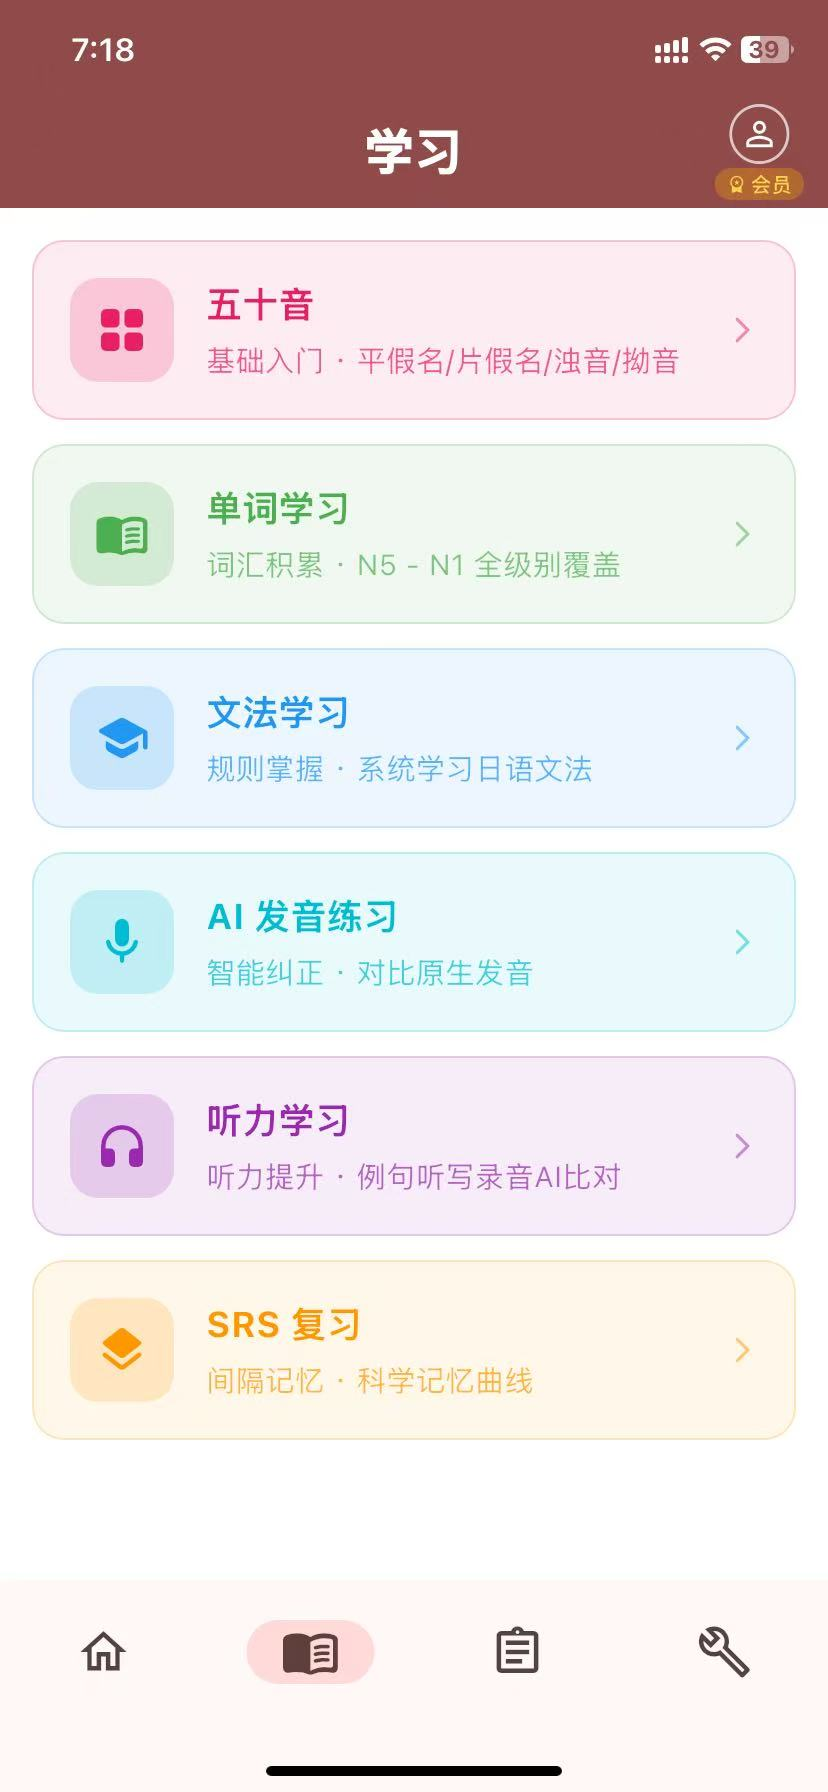
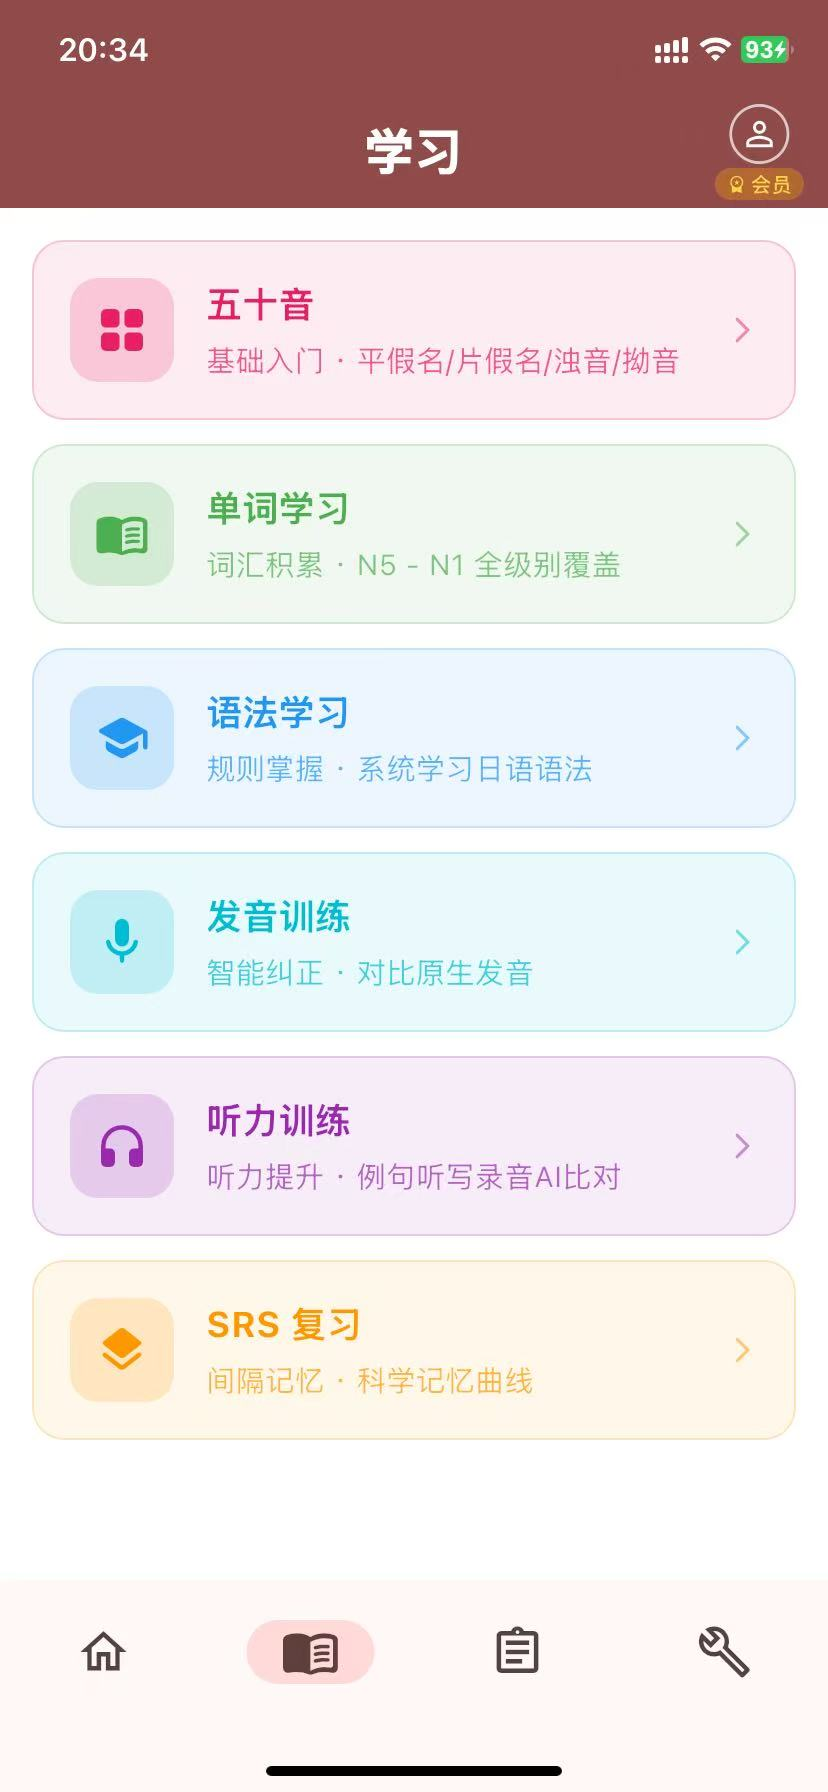
update codes

diff --git a/lib/services/api_service.dart b/lib/services/api_service.dart
@@ -1,4 +1,5 @@
 import 'dart:async';
+import 'dart:convert';
 import 'dart:io';
 import 'dart:typed_data';
 import 'package:dio/dio.dart';
@@ -6,6 +7,7 @@ import 'package:dio/io.dart';
 import 'package:flutter/foundation.dart' show VoidCallback;
 import 'package:flutter_secure_storage/flutter_secure_storage.dart';
 import 'package:path_provider/path_provider.dart';
+import 'package:shared_preferences/shared_preferences.dart';
 import '../config/app_config.dart';
 import '../models/models.dart';
 import 'local_db.dart';
@@ -361,7 +363,33 @@ class ApiService {
     final res = await _dio.get('/auth/me');
     final user = UserModel.fromJson(res.data['user']);
     _cache.set(key, user, AppConfig.cacheTtlShort);
+    _persistUser(user);
     return user;
+  }
+
+  static const _userCacheKey = 'cached_user_data';
+
+  /// 持久化用户数据到 SharedPreferences
+  Future<void> _persistUser(UserModel user) async {
+    final prefs = await SharedPreferences.getInstance();
+    await prefs.setString(_userCacheKey, jsonEncode(user.toJson()));
+  }
+
+  /// 从 SharedPreferences 读取缓存的用户数据（同步启动时用）
+  UserModel? getCachedUser(SharedPreferences prefs) {
+    final raw = prefs.getString(_userCacheKey);
+    if (raw == null) return null;
+    try {
+      return UserModel.fromJson(jsonDecode(raw) as Map<String, dynamic>);
+    } catch (_) {
+      return null;
+    }
+  }
+
+  /// 清除本地持久化的用户数据
+  Future<void> _clearCachedUser() async {
+    final prefs = await SharedPreferences.getInstance();
+    await prefs.remove(_userCacheKey);
   }
 
   /// 获取会员体验配置
@@ -404,7 +432,9 @@ class ApiService {
       if (level    != null) 'level':    level,
       if (username != null) 'username': username,
     });
-    return UserModel.fromJson(res.data);
+    final user = UserModel.fromJson(res.data);
+    _persistUser(user);
+    return user;
   }
 
   Future<UserModel> uploadAvatarBytes(Uint8List bytes, {String fileName = 'avatar.png'}) async {
@@ -413,7 +443,9 @@ class ApiService {
       'avatar': MultipartFile.fromBytes(bytes, filename: fileName),
     });
     final res = await _dio.post('/users/avatar', data: formData);
-    return UserModel.fromJson(res.data);
+    final user = UserModel.fromJson(res.data);
+    _persistUser(user);
+    return user;
   }
 
   /// 修改密码
@@ -490,6 +522,7 @@ class ApiService {
   // logout 时清缓存
   Future<void> logout() async {
     _cache.clear();
+    await _clearCachedUser();
     await _storage.deleteAll();
   }
 
@@ -497,6 +530,7 @@ class ApiService {
   Future<void> deleteAccount(String password) async {
     await _dio.delete('/users/account', data: {'password': password});
     _cache.clear();
+    await _clearCachedUser();
     await _storage.deleteAll();
   }
 
@@ -1082,9 +1116,36 @@ class ApiService {
   }
 
   Future<Map<String, dynamic>> checkin() async {
-    final res = await _dio.post('/progress/checkin');
-    _cache.invalidate('progress:');
-    return Map<String, dynamic>.from(res.data as Map);
+    Future<Map<String, dynamic>> _handleResult(Response res) async {
+      _cache.invalidate('progress:');
+      final data = Map<String, dynamic>.from(res.data as Map);
+      // 签到成功后立即更新本地缓存的用户数据
+      final prefs = await SharedPreferences.getInstance();
+      final cached = getCachedUser(prefs);
+      if (cached != null) {
+        final today = DateTime.now().toIso8601String().split('T').first;
+        final updated = cached.copyWith(
+          streakDays: data['streak_days'] as int? ?? cached.streakDays,
+          lastStudyDate: today,
+        );
+        await prefs.setString(_userCacheKey, jsonEncode(updated.toJson()));
+        _cache.remove('me');
+      }
+      return data;
+    }
+    try {
+      final res = await _dio.post('/progress/checkin');
+      return await _handleResult(res);
+    } on DioException catch (e) {
+      if (e.type == DioExceptionType.connectionTimeout ||
+          e.type == DioExceptionType.receiveTimeout ||
+          e.type == DioExceptionType.connectionError) {
+        await Future.delayed(const Duration(milliseconds: 1500));
+        final res = await _dio.post('/progress/checkin');
+        return await _handleResult(res);
+      }
+      rethrow;
+    }
   }
 
   Future<ProgressSummaryModel> getProgressSummary() async {

diff --git a/lib/models/models.dart b/lib/models/models.dart
@@ -59,6 +59,49 @@ class UserModel {
         trialActivated: json['trial_activated'] == true,
         membershipDaysLeft: json['membership_days_left'] as int?,
       );
+
+  Map<String, dynamic> toJson() => {
+        'id': id,
+        'username': username,
+        'email': email,
+        'avatar_url': avatarUrl,
+        'level': level,
+        'streak_days': streakDays,
+        'total_study_minutes': totalStudyMinutes,
+        'last_study_date': lastStudyDate,
+        'daily_goal_minutes': dailyGoalMinutes,
+        'notification_enabled': notificationEnabled,
+        'preferences': preferences,
+        'is_member': isMember,
+        'membership_plan': membershipPlan,
+        'membership_expire': membershipExpire,
+        'is_trial': isTrial,
+        'trial_activated': trialActivated,
+        'membership_days_left': membershipDaysLeft,
+      };
+
+  UserModel copyWith({
+    int? streakDays,
+    String? lastStudyDate,
+  }) => UserModel(
+        id: id,
+        username: username,
+        email: email,
+        avatarUrl: avatarUrl,
+        level: level,
+        streakDays: streakDays ?? this.streakDays,
+        totalStudyMinutes: totalStudyMinutes,
+        lastStudyDate: lastStudyDate ?? this.lastStudyDate,
+        dailyGoalMinutes: dailyGoalMinutes,
+        notificationEnabled: notificationEnabled,
+        preferences: preferences,
+        isMember: isMember,
+        membershipPlan: membershipPlan,
+        membershipExpire: membershipExpire,
+        isTrial: isTrial,
+        trialActivated: trialActivated,
+        membershipDaysLeft: membershipDaysLeft,
+      );
 }
 
 // ─── Vocabulary Model ────────────────────────────────────────────────────────

diff --git a/lib/services/membership_service.dart b/lib/services/membership_service.dart
@@ -1,3 +1,4 @@
+import 'package:shared_preferences/shared_preferences.dart';
 import '../models/models.dart';
 import 'api_service.dart';
 import 'sync_service.dart';
@@ -17,10 +18,22 @@ class MembershipService {
   DateTime? _cacheTime;
   static const _cacheDuration = Duration(minutes: 5);
 
+  static const _persistKeyIsMember = 'membership_is_member';
+  static const _persistKeyAvatarUrl = 'membership_avatar_url';
+
   /// 是否有有效缓存（供同步读取，避免页面闪烁）
   bool get hasCachedStatus => _cacheTime != null;
   bool get cachedIsMember => _cachedIsMember;
   String? get cachedAvatarUrl => _cachedAvatarUrl;
+
+  /// 从 SharedPreferences 恢复缓存（app 启动时调用）
+  void restoreFromPrefs(SharedPreferences prefs) {
+    _cachedIsMember = prefs.getBool(_persistKeyIsMember) ?? false;
+    _cachedAvatarUrl = prefs.getString(_persistKeyAvatarUrl);
+    if (prefs.containsKey(_persistKeyIsMember)) {
+      _cacheTime = DateTime.now();
+    }
+  }
 
   /// 获取缓存的会员状态，如未缓存则自动加载
   Future<({bool isMember, String? avatarUrl})> getCachedStatus() async {
@@ -42,6 +55,15 @@ class MembershipService {
     _cachedIsMember = isMember;
     _cachedAvatarUrl = avatarUrl;
     _cacheTime = DateTime.now();
+    // 异步持久化，不阻塞调用方
+    SharedPreferences.getInstance().then((prefs) {
+      prefs.setBool(_persistKeyIsMember, isMember);
+      if (avatarUrl != null) {
+        prefs.setString(_persistKeyAvatarUrl, avatarUrl);
+      } else {
+        prefs.remove(_persistKeyAvatarUrl);
+      }
+    });
   }
 
   /// 检查某功能对当前用户是否完全锁定

diff --git a/lib/screens/home/home_screen.dart b/lib/screens/home/home_screen.dart
@@ -115,11 +115,27 @@ class _HomeScreenState extends State<HomeScreen> with WidgetsBindingObserver {
   void initState() {
     super.initState();
     WidgetsBinding.instance.addObserver(this);
+    _loadCachedUser();
     _loadFavFeatures();
     _loadFeatureToggles();
     _loadAll(fromCache: true);
     // 后台静默同步服务端内容版本
     Future.microtask(() => syncService.checkContentVersion());
+  }
+
+  /// 从本地缓存立即恢复用户数据，避免 UI 闪烁
+  Future<void> _loadCachedUser() async {
+    final prefs = await SharedPreferences.getInstance();
+    final cached = apiService.getCachedUser(prefs);
+    if (cached != null && mounted) {
+      final today = DateTime.now().toIso8601String().split('T').first;
+      setState(() {
+        _user = cached;
+        _userLoading = false;
+        _checkedInToday = cached.lastStudyDate == today;
+      });
+      membershipService.updateCache(isMember: cached.isMember, avatarUrl: cached.avatarUrl);
+    }
   }
 
   /// [fromCache] true = 先用缓存立即渲染，后台同步刷新；false = 强制刷新

diff --git a/lib/main.dart b/lib/main.dart
@@ -2,9 +2,11 @@ import 'package:flutter/material.dart';
 import 'package:flutter_localizations/flutter_localizations.dart';
 import 'package:flutter_riverpod/flutter_riverpod.dart';
 import 'package:go_router/go_router.dart';
+import 'package:shared_preferences/shared_preferences.dart';
 import 'services/api_service.dart';
 import 'services/sync_service.dart';
 import 'services/guest_service.dart';
+import 'services/membership_service.dart';
 import 'router/app_router.dart';
 import 'l10n/app_localizations.dart';
 import 'providers/locale_provider.dart';
@@ -65,6 +67,9 @@ void main() async {
   await container.read(appAppearanceProvider.notifier).init();
   // 初始化游客模式状态
   await guestService.init();
+  // 从本地缓存恢复会员状态（避免 UI 闪烁）
+  final prefs = await SharedPreferences.getInstance();
+  membershipService.restoreFromPrefs(prefs);
   // 后台检测服务端内容版本，有更新则清除缓存
   syncService.checkContentVersion();
   // 后台拉取功能开关

diff --git a/lib/screens/home/srs_review_screen.dart b/lib/screens/home/srs_review_screen.dart
@@ -473,7 +473,12 @@ class _SrsReviewScreenState extends State<SrsReviewScreen> {
             mainAxisAlignment: MainAxisAlignment.center,
             crossAxisAlignment: CrossAxisAlignment.center,
             children: [
-              Text(vocab.word, style: const TextStyle(fontSize: 48, fontWeight: FontWeight.bold)),
+              Flexible(
+                child: FittedBox(
+                  fit: BoxFit.scaleDown,
+                  child: Text(vocab.word, style: const TextStyle(fontSize: 48, fontWeight: FontWeight.bold)),
+                ),
+              ),
               const SizedBox(width: 12),
               GestureDetector(
                 onTap: _wordLoading ? null : () => _speakWord(vocab.word, audioUrl: vocab.audioUrl),

diff --git a/backend/public/home/index.html b/backend/public/home/index.html
@@ -272,12 +272,12 @@ footer {
       <h3>错题集</h3>
       <p>自动收集答错题目，专项攻克薄弱环节，让每次犯错都变成进步。</p>
     </div>
-    {% comment %} <div class="feat-card">
+    <div class="feat-card">
       <span class="feat-tag">沉浸听力</span>
       <div class="icon">🎧</div>
       <h3>磨耳朵</h3>
       <p>精选日语播客 · 有声读物 · 多难度听力素材，碎片时间磨出日语耳朵。</p>
-    </div> {% endcomment %}
+    </div>
     <div class="feat-card">
       <span class="feat-tag">实时资讯</span>
       <div class="icon">📰</div>

diff --git a/backend/src/models/User.js b/backend/src/models/User.js
@@ -9,7 +9,7 @@ const {
 
 const User = sequelize.define('User', {
   id: { type: DataTypes.UUID, defaultValue: DataTypes.UUIDV4, primaryKey: true },
-  username: { type: DataTypes.STRING(50), allowNull: false, unique: true },
+  username: { type: DataTypes.STRING(50), allowNull: false },
   email: { type: DataTypes.STRING(255), allowNull: false, unique: true, validate: { isEmail: true } },
   password_hash: { type: DataTypes.STRING(255), allowNull: false },
   avatar_url: { type: DataTypes.STRING(500), allowNull: true },

diff --git a/lib/screens/game/flashcard_screen.dart b/lib/screens/game/flashcard_screen.dart
@@ -383,7 +383,10 @@ class _CardFront extends StatelessWidget {
           ),
           const SizedBox(height: 24),
           // 日文大字 + 假名
-          FuriganaText(text: word.word, fontSize: 56, color: cs.primary),
+          FittedBox(
+            fit: BoxFit.scaleDown,
+            child: FuriganaText(text: word.word, fontSize: 56, color: cs.primary),
+          ),
           const SizedBox(height: 16),
           // 词性标签
           Container(
